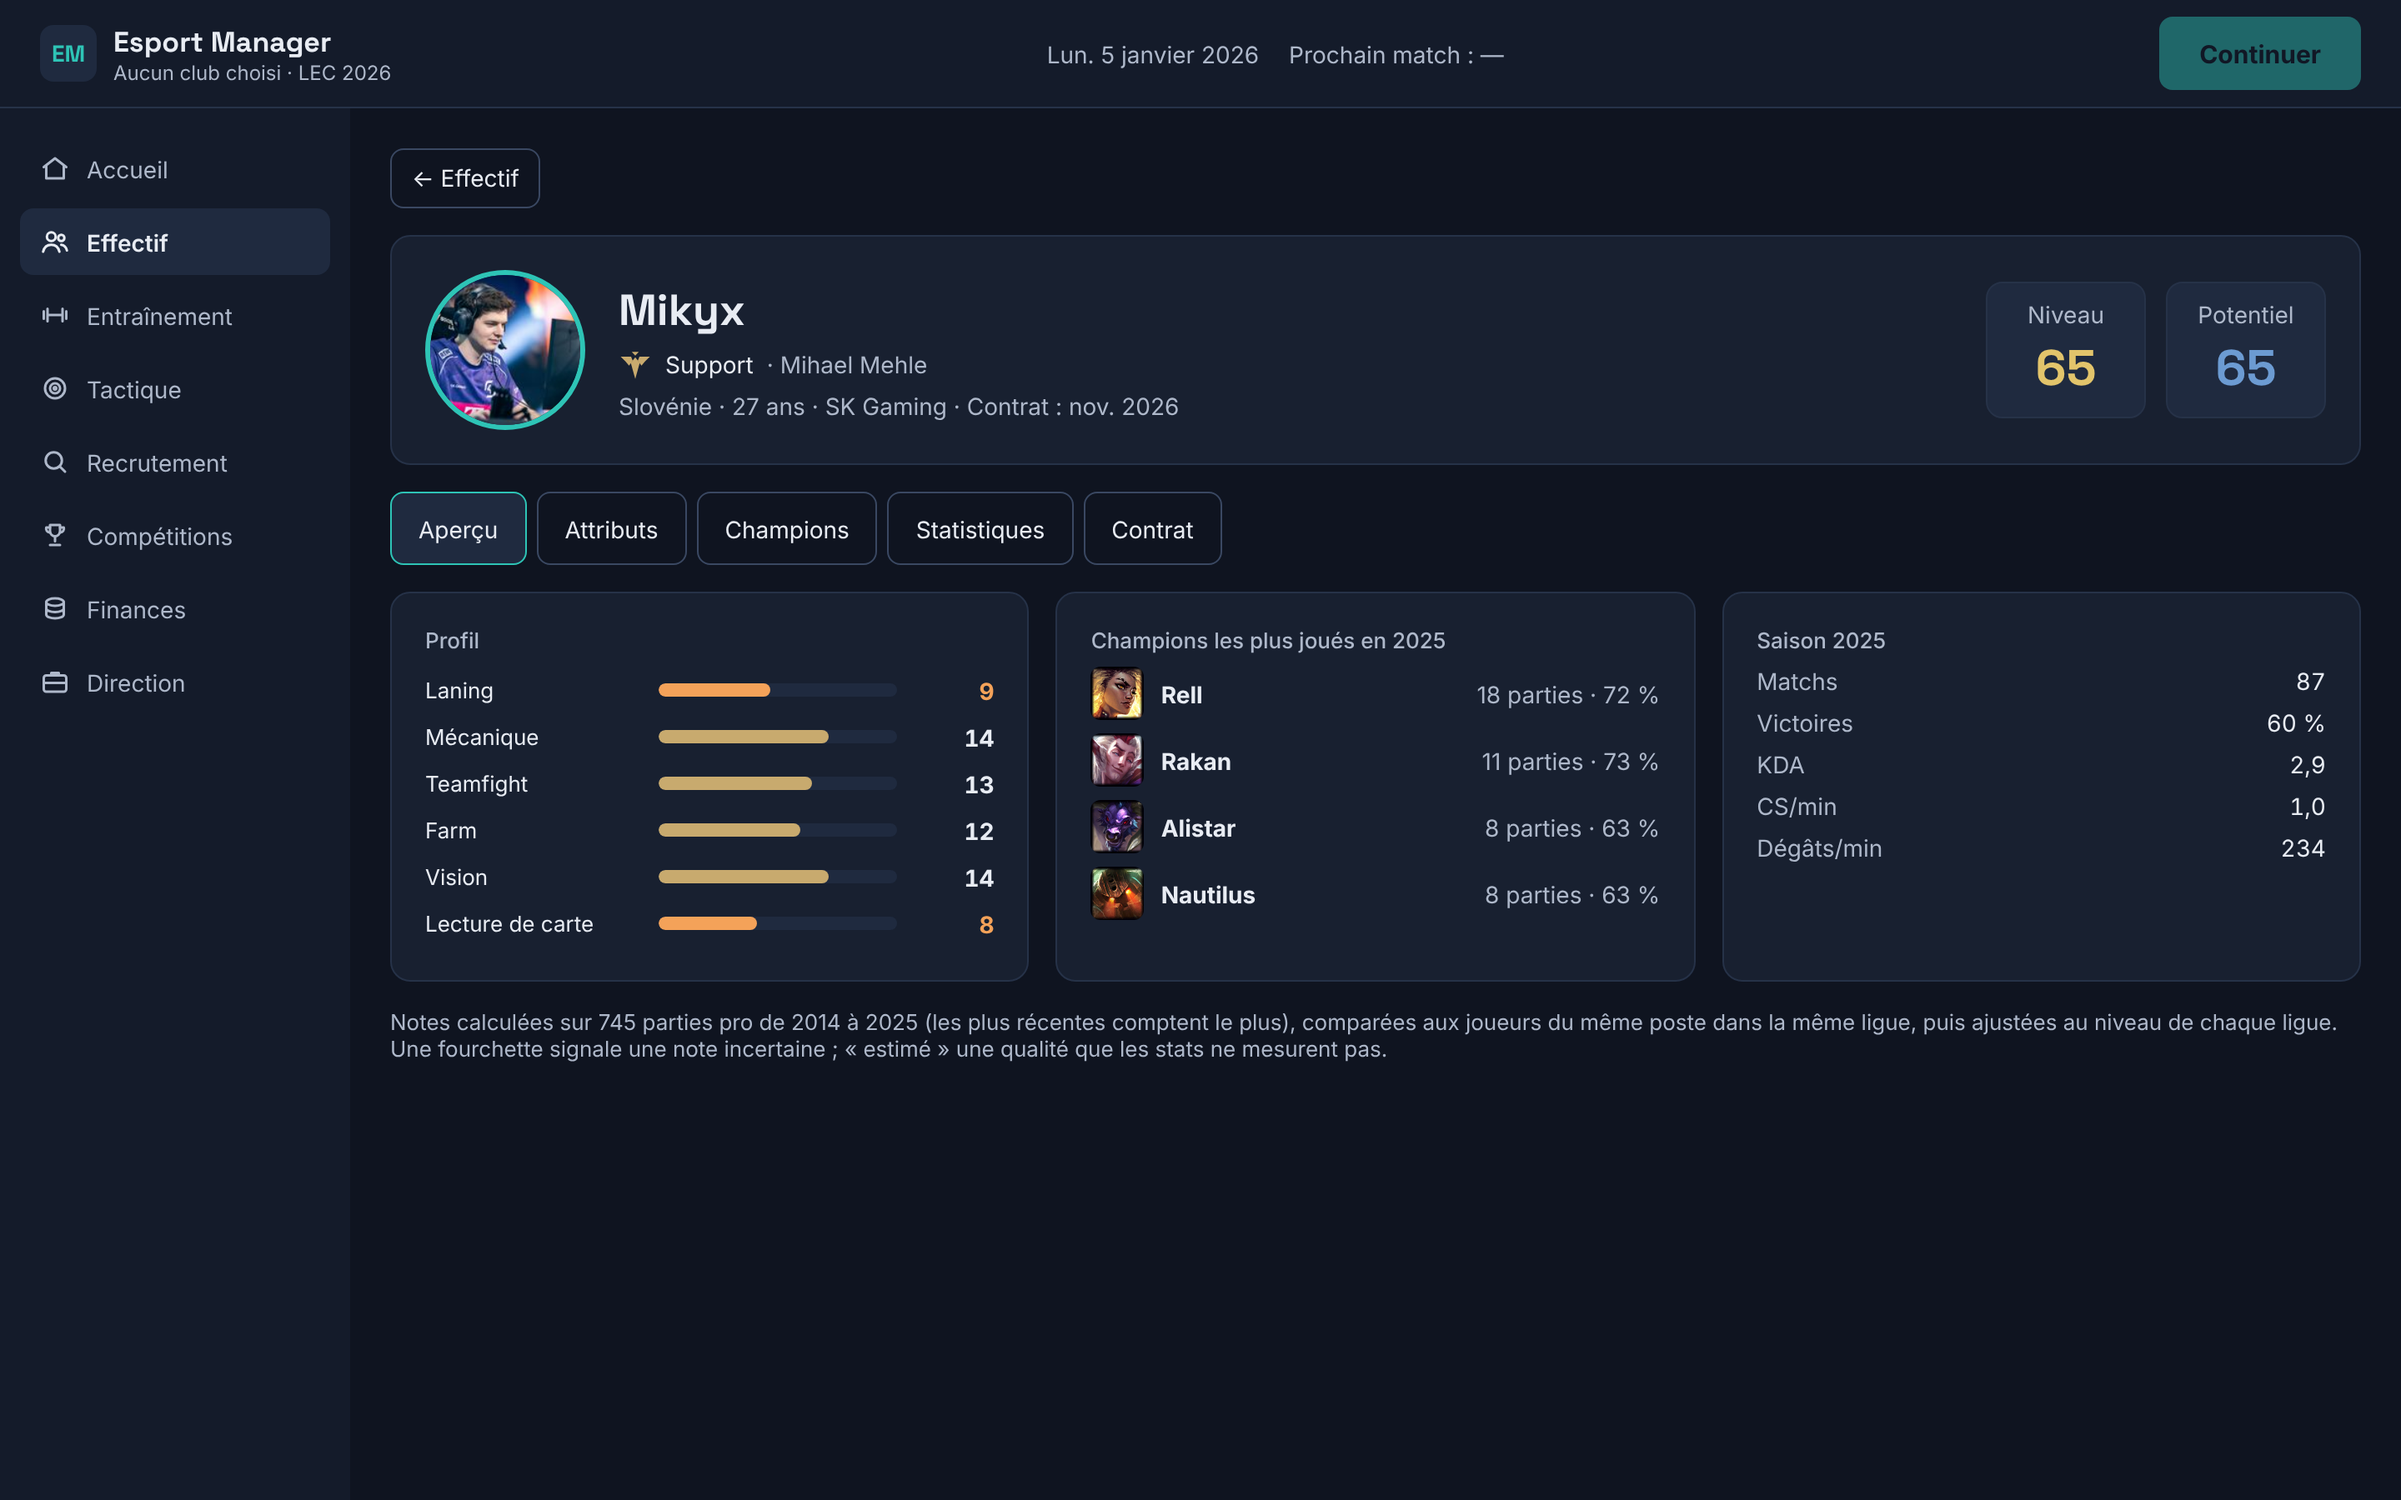
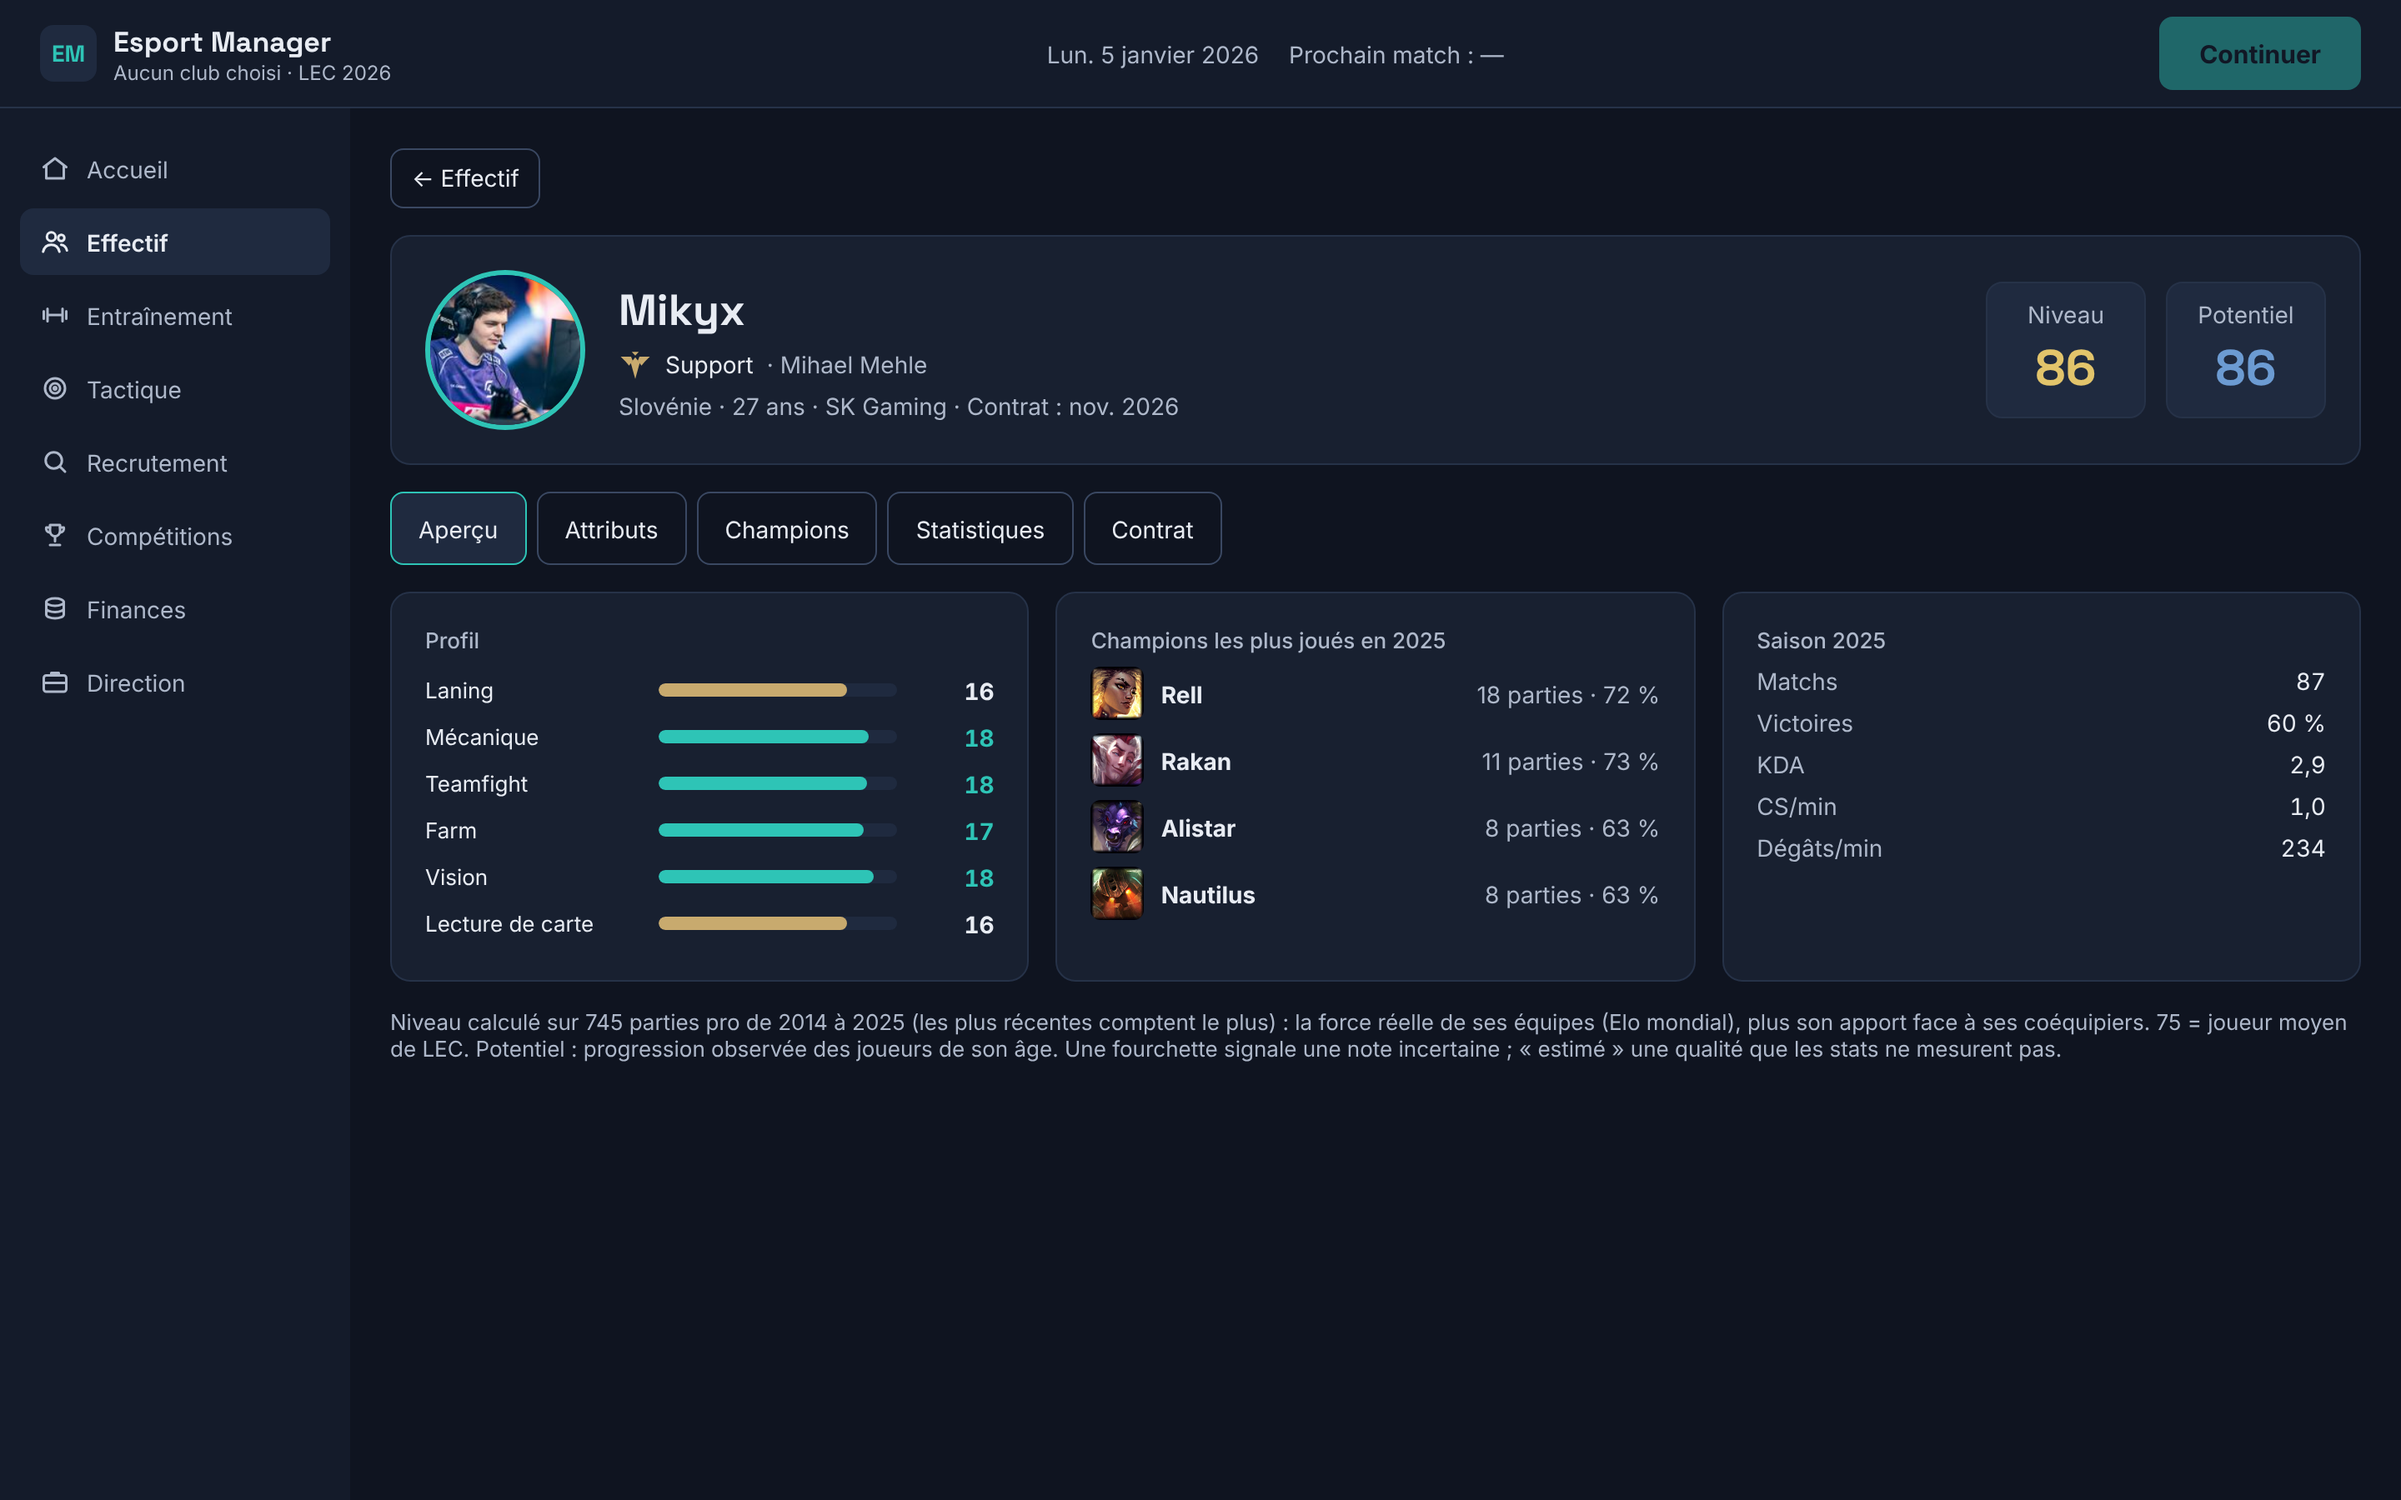
M2b : échelle des notes (75 = joueur moyen de LEC), textes et démo
Claude-Session: https://claude.ai/code/session_017zyvBy1DnTLvjbDSzZzXfs

Changed region(s): [[0.1562, 0.6533, 0.9688, 0.7156], [0.2812, 0.4356, 0.375, 0.6222], [0.8438, 0.2178, 0.875, 0.2489]]

diff --git a/app/ui/src/ratings.ts b/app/ui/src/ratings.ts
@@ -28,7 +28,7 @@ export const ATTR_GROUPS: { title: string; keys: string[] }[] = [
 
 /** Demi-largeur (sur 20) au-delà de laquelle on montre une fourchette : même seuil que
  * `RANGE_SHOWN` dans crates/data/src/ratings.rs (environ un split et demi de parties). */
-export const RANGE_SHOWN = 1.5;
+export const RANGE_SHOWN = 1;
 
 /** Une fourchette s'affiche quand la note est estimée ou incertaine. `scale` : 20 ou 100. */
 export function isRange(a: { value?: number; low: number; high: number; estimated?: boolean }, scale = 20): boolean {
@@ -45,9 +45,9 @@ export function byKey(attrs: AttrScore[]): Map<string, AttrScore> {
   return new Map(attrs.map((a) => [a.key, a]));
 }
 
-/** Couleur d'une note sur 20 (échelle des maquettes). */
+/** Couleur d'une note sur 20 : 15 = joueur moyen de LEC, 17 et plus = très haut niveau. */
 export function tone(value: number): 'high' | 'mid' | 'low' {
-  if (value >= 15) return 'high';
-  if (value >= 10) return 'mid';
+  if (value >= 17) return 'high';
+  if (value >= 13) return 'mid';
   return 'low';
 }

diff --git a/app/ui/src/screens/Squad.tsx b/app/ui/src/screens/Squad.tsx
@@ -78,7 +78,7 @@ export function Squad({ teamId: shownTeam, onTeamChange, onOpenPlayer }: Props) 
         {tab === 'joueurs' ? <PlayersTable players={players} onOpen={onOpenPlayer} /> : <StaffTable staff={staff} />}
       </section>
       <p className="note">
-        Effectif de départ et contrats : Leaguepedia. Stats : matchs pro 2025 (tous tournois). Niveau sur 100, calculé sur les parties pro 2014-2025 (Oracle's Elixir) et le niveau de chaque ligue : une fourchette signale une note incertaine. Clique sur un joueur pour sa fiche.
+        Effectif de départ et contrats : Leaguepedia. Stats : matchs pro 2025 (tous tournois). Niveau sur 100 (75 = joueur moyen de LEC), calculé sur les parties pro 2014-2025 (Oracle's Elixir) : force de ses équipes et apport individuel : une fourchette signale une note incertaine. Clique sur un joueur pour sa fiche.
       </p>
     </>
   );

diff --git a/app/ui/src/screens/Player.tsx b/app/ui/src/screens/Player.tsx
@@ -116,7 +116,7 @@ function RatingNote({ p }: { p: PlayerDetail }) {
   }
   return (
     <p className="note">
-      Notes calculées sur {r.games} parties pro de 2014 à 2025 (les plus récentes comptent le plus), comparées aux joueurs du même poste dans la même ligue, puis ajustées au niveau de chaque ligue.
+      Niveau calculé sur {r.games} parties pro de 2014 à 2025 (les plus récentes comptent le plus) : la force réelle de ses équipes (Elo mondial), plus son apport face à ses coéquipiers. 75 = joueur moyen de LEC. Potentiel : progression observée des joueurs de son âge.
       Une fourchette signale une note incertaine ; « estimé » une qualité que les stats ne mesurent pas.
     </p>
   );

diff --git a/app/ui/src/ratings.test.ts b/app/ui/src/ratings.test.ts
@@ -7,7 +7,7 @@ describe('notes', () => {
     expect(scoreText({ value: 13.5, low: 12.1, high: 15.2 })).toBe('12-15');
     expect(isRange({ value: 10, low: 10, high: 10, estimated: true })).toBe(true);
     // Niveau sur 100 : même seuil, mis à l'échelle.
-    expect(scoreText({ value: 82.3, low: 76, high: 88 }, 100)).toBe('82');
+    expect(scoreText({ value: 82.3, low: 78, high: 86 }, 100)).toBe('82');
     expect(scoreText({ value: 70, low: 60, high: 80 }, 100)).toBe('60-80');
   });
 
